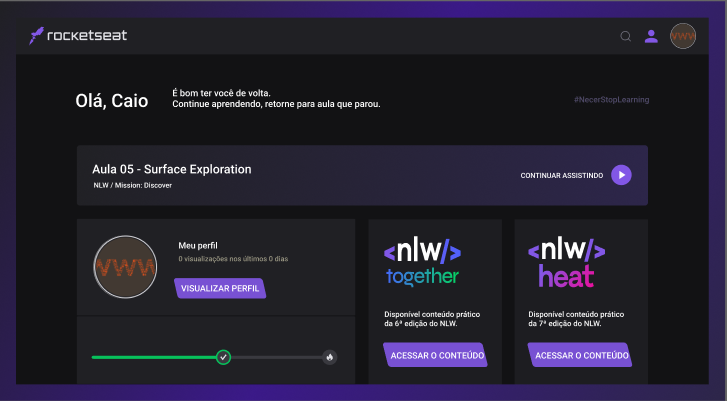
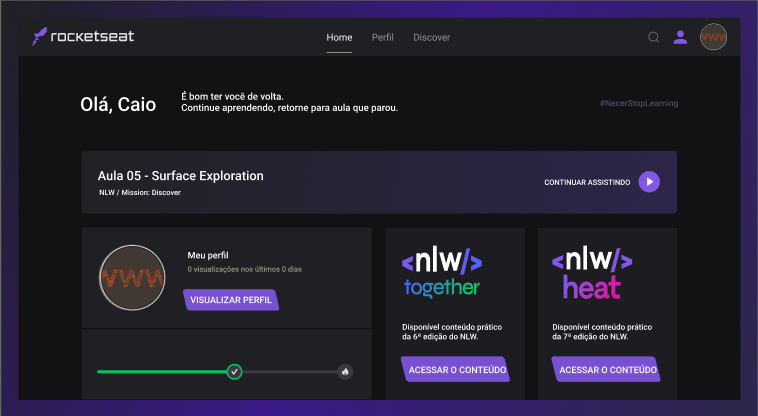
finalizado o html

diff --git a/assets/index.html b/assets/index.html
@@ -61,5 +61,51 @@
   </section>
 
   <!-- Profile area -->
+
+  <main class="profile-area">
+    <section class="profile">
+      <img src="./img/profileImg.png" alt="Foto de perfil" class="profile-img">
+      <div class="profile-infos">
+        <h1>Meu perfil</h1>
+        <h3>0 visualizações nos últimos 7 dias</h3>
+      </div>
+      <button class="button-profile">
+        VISUALIZAR PERFIL
+      </button>
+    </section>
+    <section class="progress">
+      <div class="progress-complet">
+        <div class="breakCmp">
+          <img src="./img/confere.svg" alt="conplet-img">
+        </div>
+      </div>
+      <div class="progress-incomplet">
+        <div class="breakIncomplet">
+          <img src="./img/fire.svg" alt="fire">
+        </div>
+      </div>
+    </section>
+  </main>
+  
+  <!-- NLW's area -->
+
+  <section class="nlw-toge">
+    <img src="./img/nlwTogether.svg" alt="NLW Together" class="img-toge">
+    <div class="nlw-info">
+      Disponível conteúdo prático da 6ª edição do NLW.
+    </div>
+    <button class="nlw-button">
+      ACESSAR CONTEÚDO
+    </button>
+  </section>
+  <section class="nlw-heat">
+    <img src="./img/nlwHeat.svg" alt="NLW Heat" class="img-heat">
+    <div class="nlw-info">
+      Disponível conteúdo prático da 6ª edição do NLW.
+    </div>
+    <button class="nlw-button">
+      ACESSAR CONTEÚDO
+    </button>
+  </section>
 </body>
 </html>

diff --git a/assets/css/style.css b/assets/css/style.css
@@ -41,6 +41,14 @@ a:hover {
   border-bottom: 1px solid #fff;
 }
 
+button {
+
+}
+
+button:hover {
+
+}
+
 /*
   header style
 */
@@ -112,7 +120,7 @@ a:hover {
 }
 
 /*
-  Return Class style
+  Continue Your Class style
 */
 
 .container-class {
@@ -129,4 +137,62 @@ a:hover {
 
 .play {
   
+}
+
+/*
+  Profile area style
+*/
+
+.profile-area {
+
+}
+
+.profile {
+
+}
+
+.profile-img {
+  border-radius: 100%;
+  width: 125px;
+  height: 125px;
+}
+
+.profile-infos {
+
+}
+
+.button-profile {
+
+}
+
+/*
+  Progress style
+*/
+
+.progress {
+
+}
+
+.progress-complet {
+
+}
+
+.breakCmp {
+
+}
+
+.complet-img {
+
+}
+
+.progress-incomplet {
+
+}
+
+.breakIncomplet {
+
+}
+
+.fire {
+
 }
